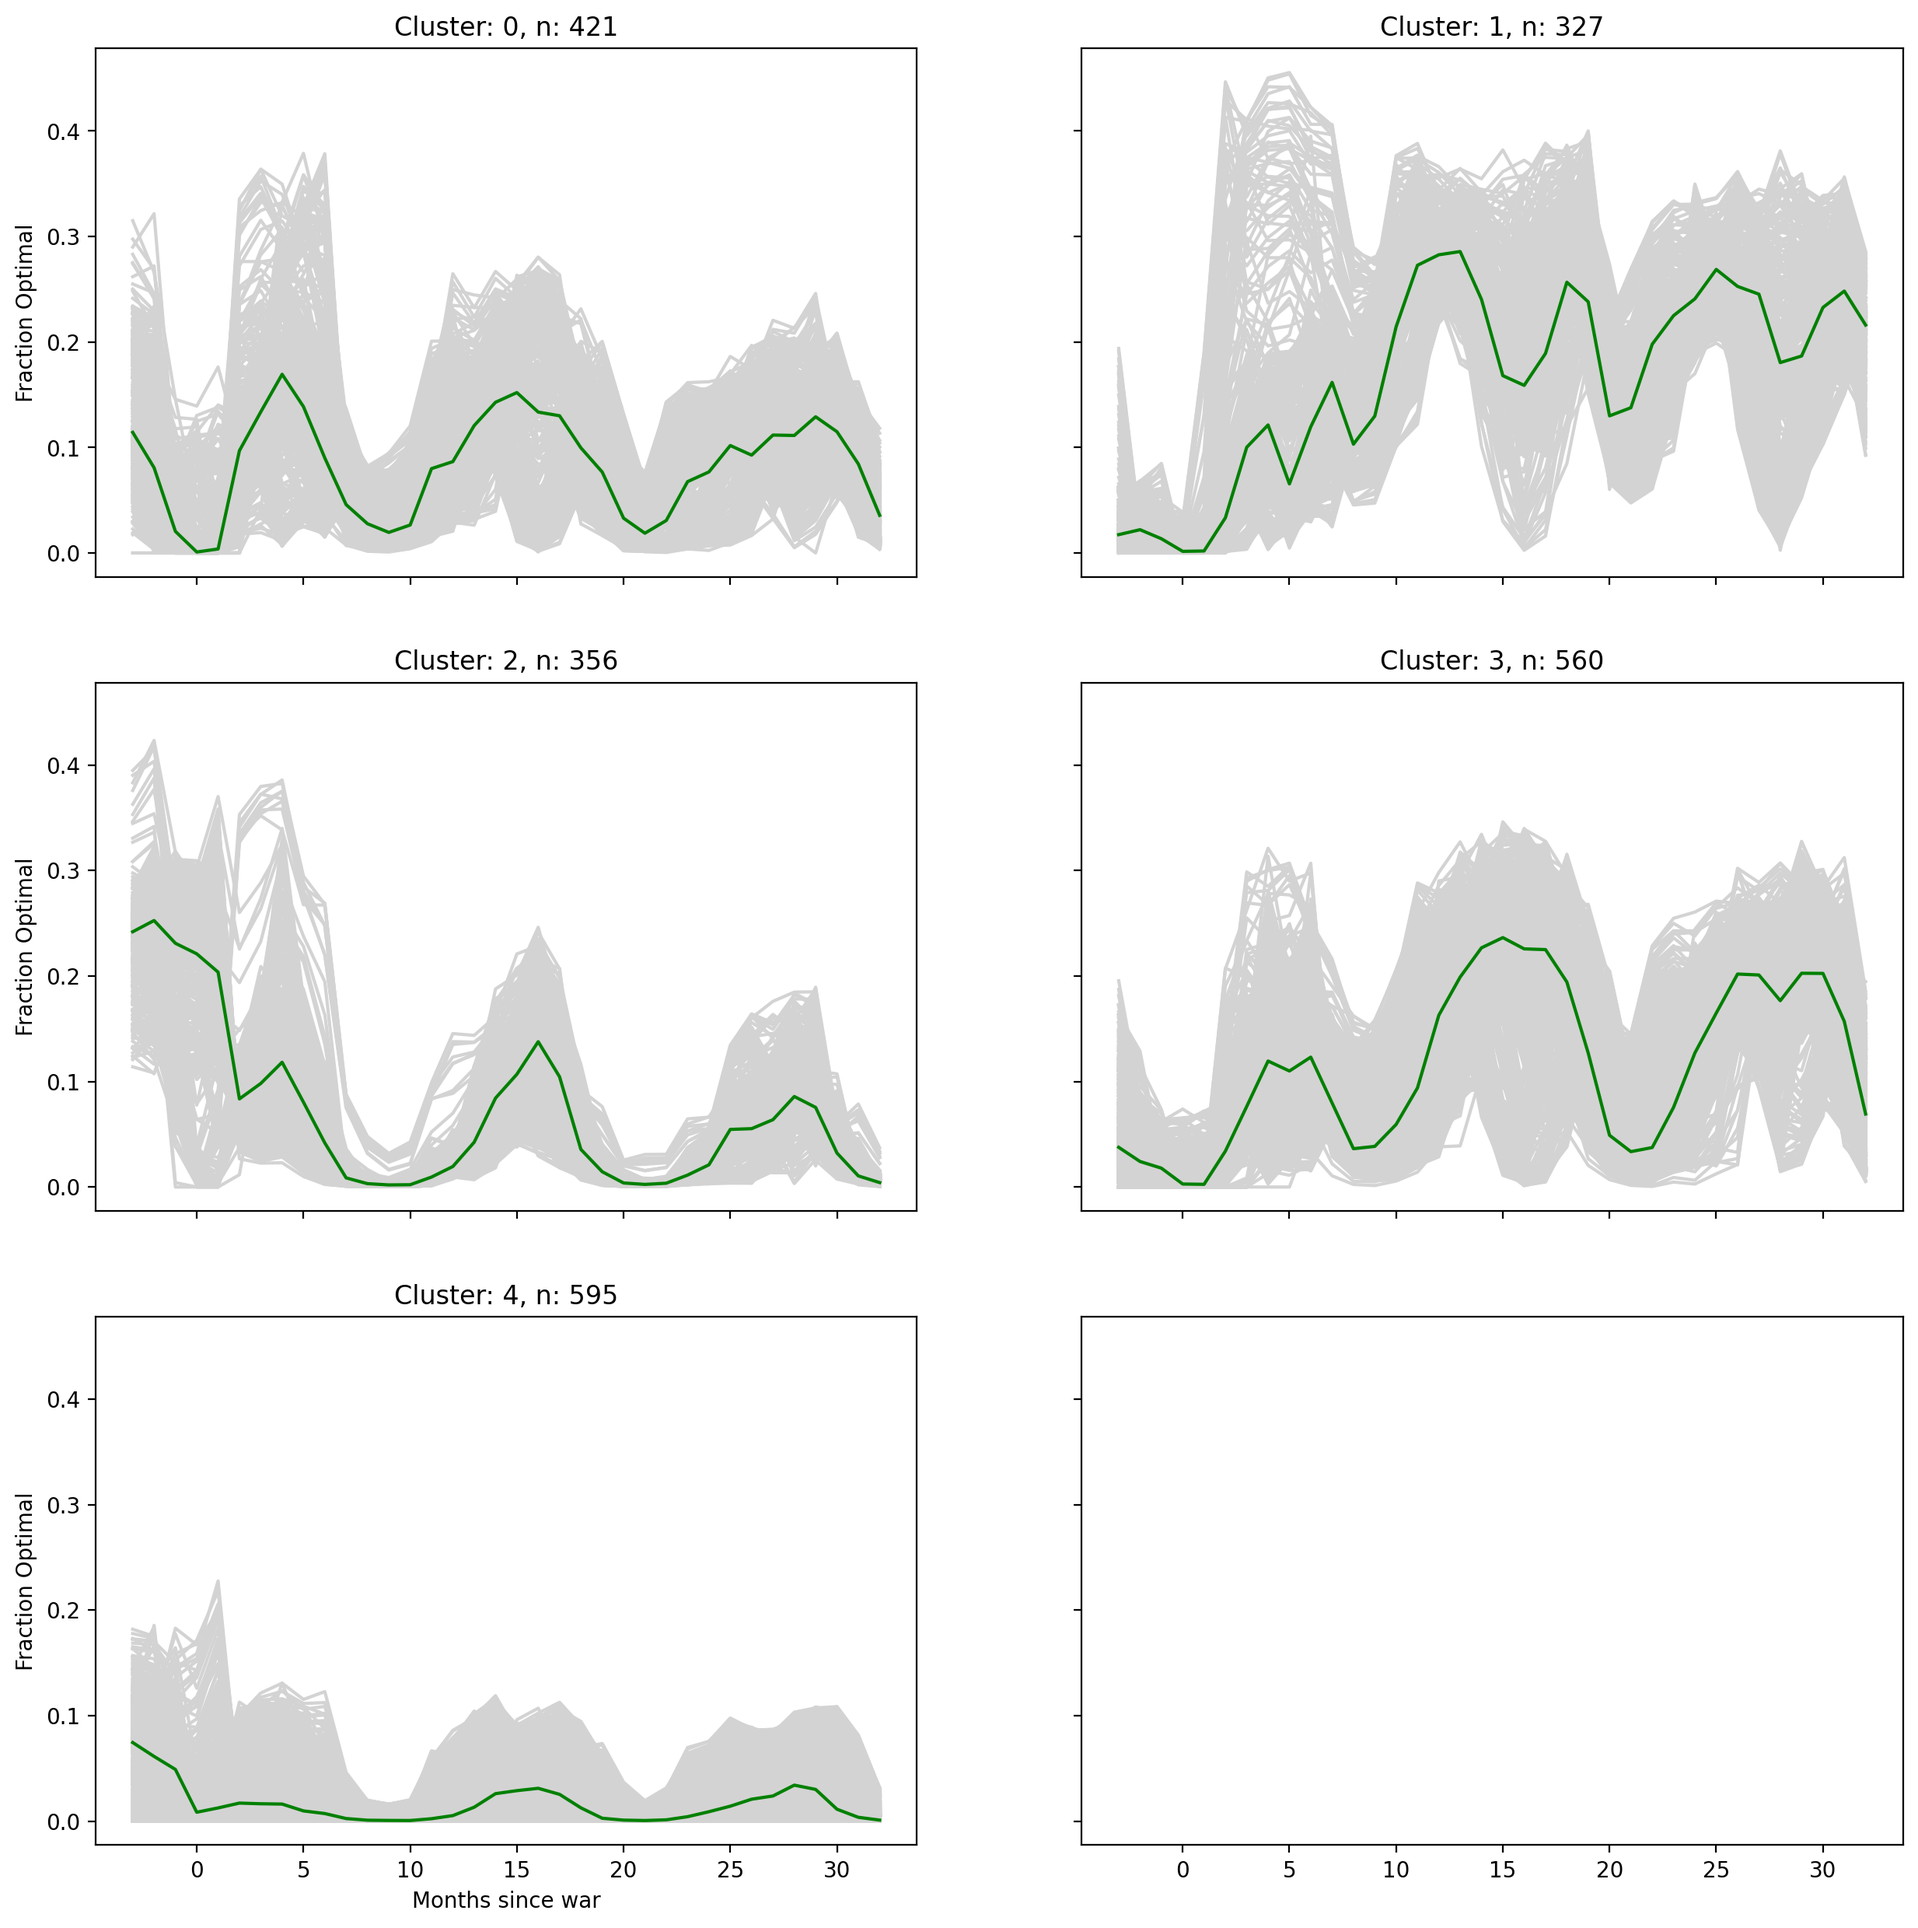
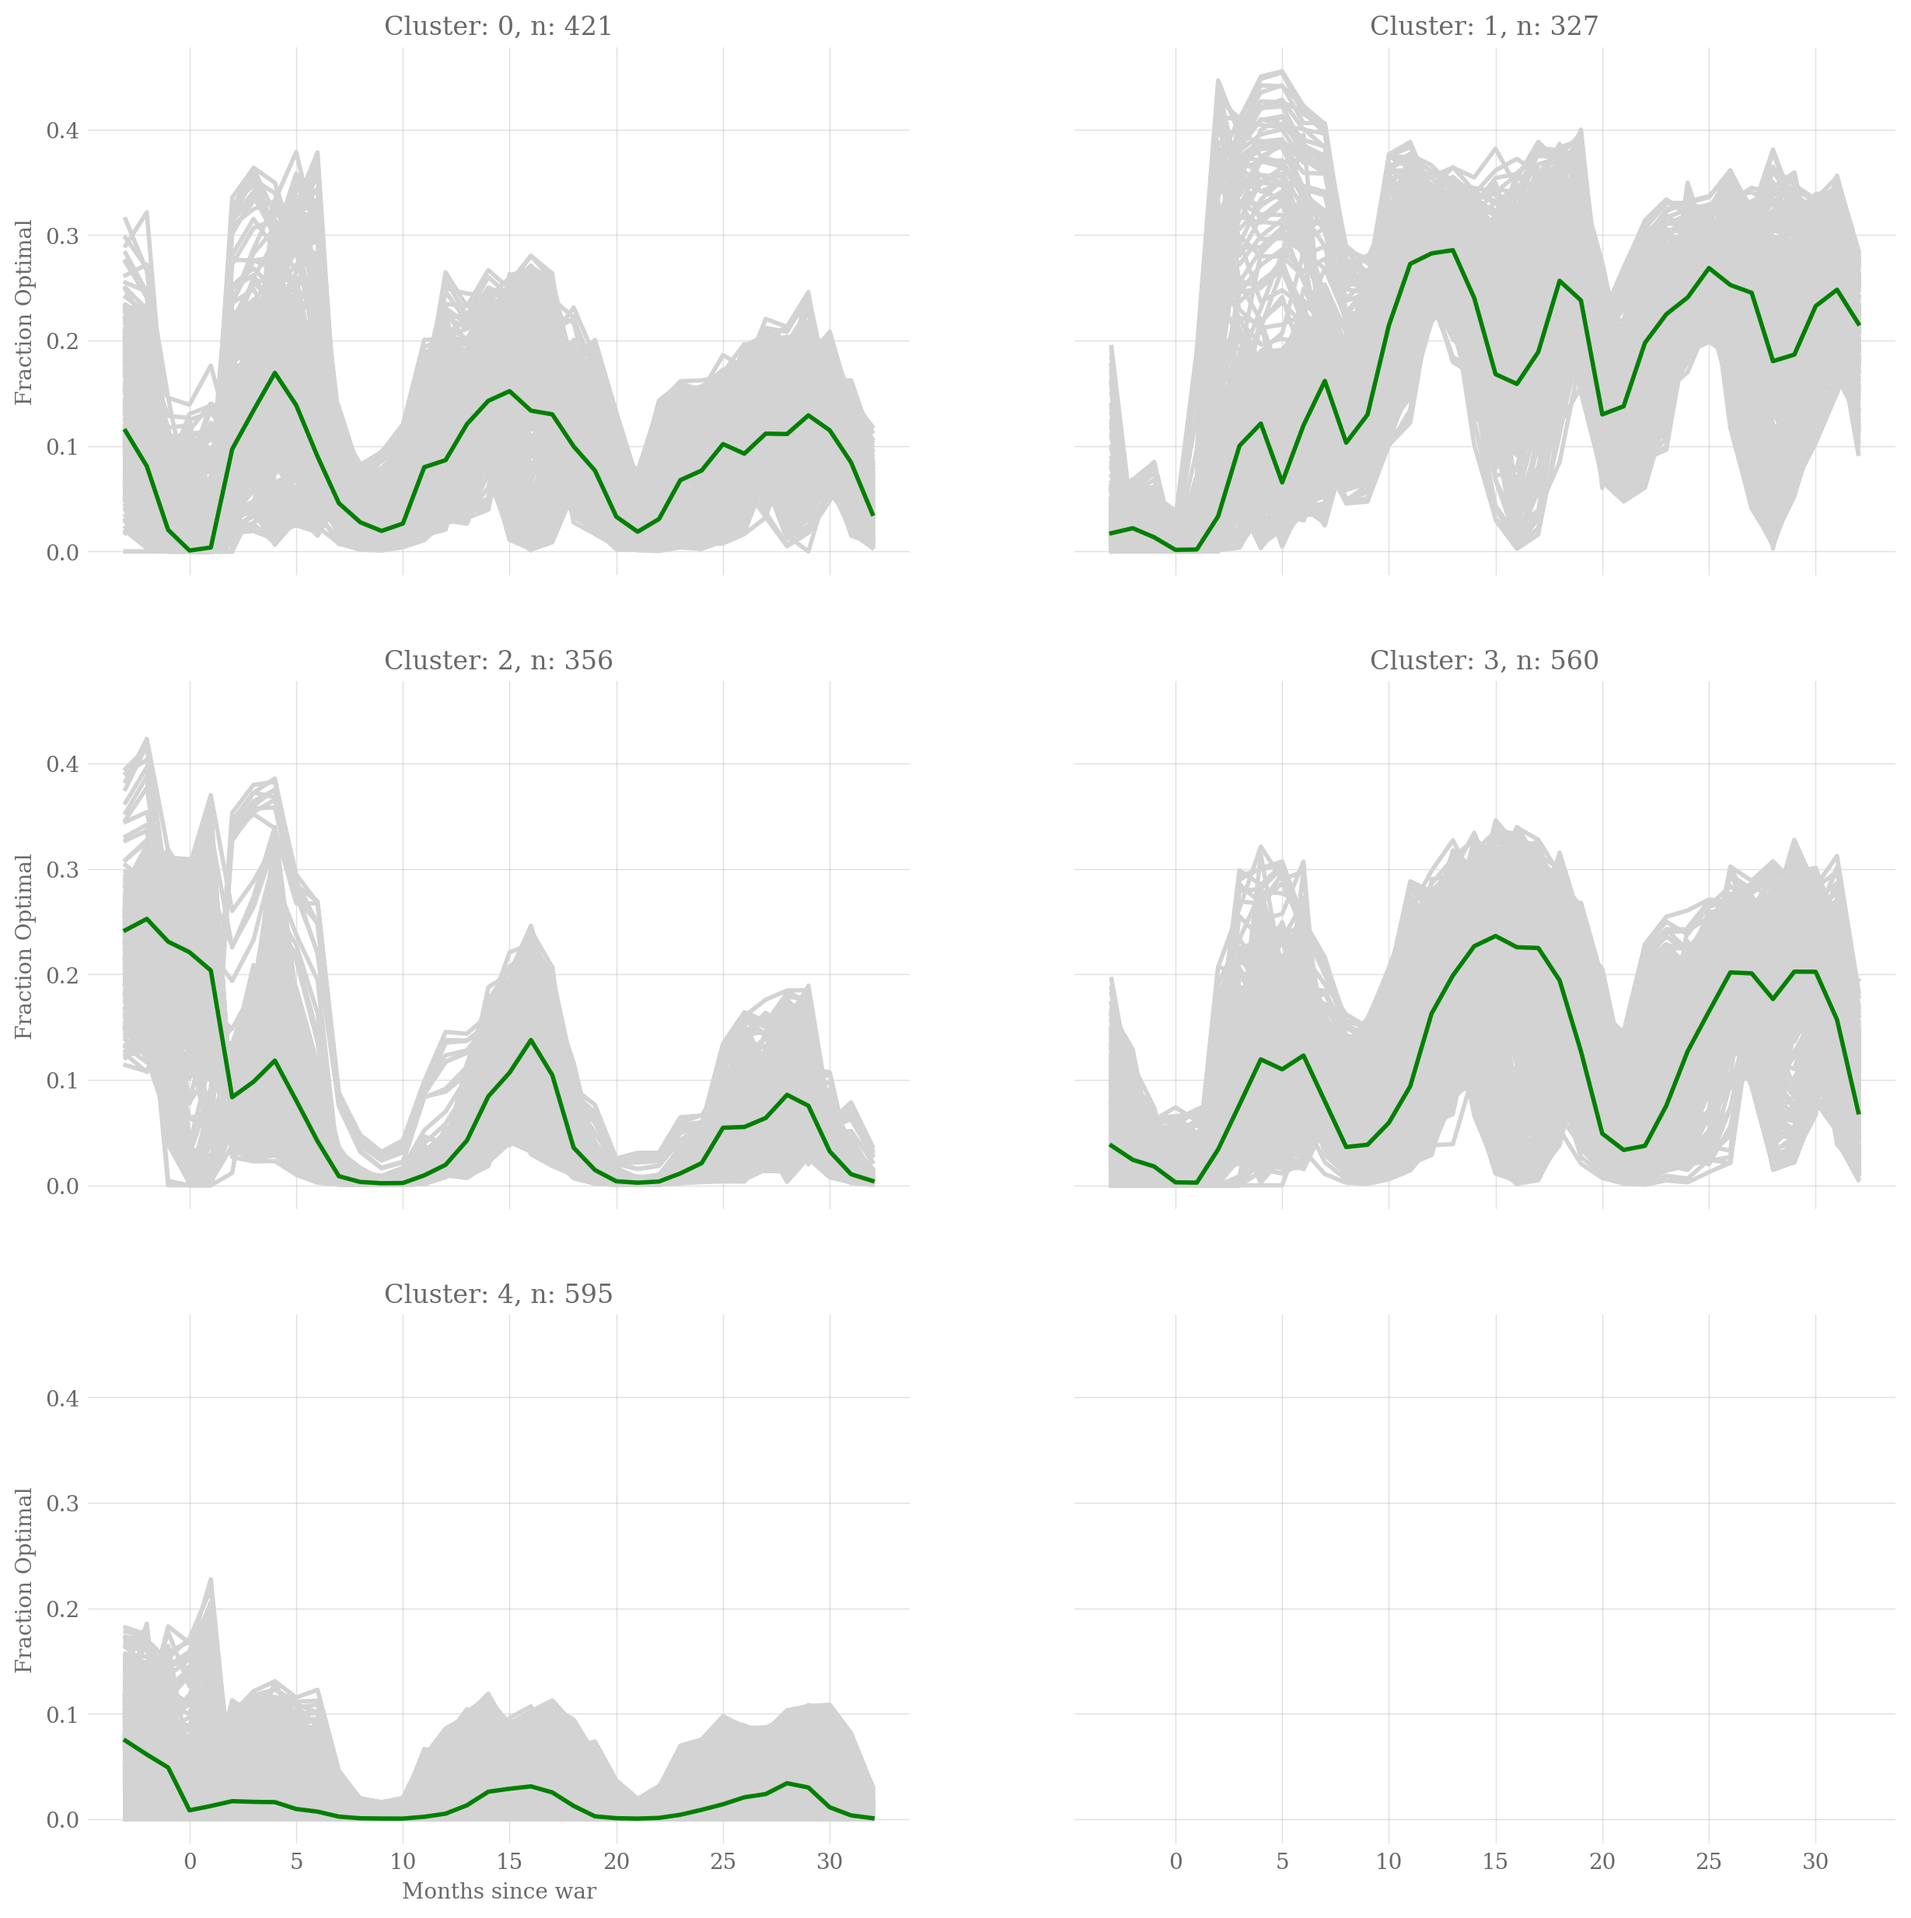
plots are now in allfed style

diff --git a/src/plotting/plotter_grid.py b/src/plotting/plotter_grid.py
@@ -8,9 +8,11 @@ import geopandas as gpd
 import matplotlib.pyplot as plt
 import geoplot as gplt
 from shapely.geometry import Point
+# Import the ALLFED stle
+plt.style.use("https://raw.githubusercontent.com/allfed/ALLFED-matplotlib-style-sheet/main/ALLFED.mplstyle")
 
 
-def cluster_timeseries(growth_df):
+def cluster_timeseries_only_growth(growth_df):
     """
     Plots the clusters that were found in postprocessing
     The plot is seperated by clusters and the median growth rate is plotted
@@ -78,15 +80,25 @@ def prepare_geometry(growth_df):
     return growth_df
 
 
+def cluster_timeseries_all_parameters(parameters):
+    """
+    Plots line plots for all clusters and all parameters
+    Arguments:
+        parameters: a dictionary of dataframes of all parameters
+    Returns: 
+        None, but saves the plot
+    """
+    pass
+
 if __name__ == "__main__":
     # Either calculate for the whole world or just the US
     global_or_US = "US"
-    if global_or_US == "US":
-        growth_df = gpd.GeoDataFrame(
-            pd.read_pickle(
-                "data" + os.sep + "interim_results" + os.sep + "seaweed_growth_rate_clustered_US.pkl"
-            )
+    growth_df = gpd.GeoDataFrame(
+        pd.read_pickle(
+            "data" + os.sep + "interim_results" + os.sep + "seaweed_growth_rate_clustered_" + global_or_US +".pkl"
         )
-        cluster_timeseries(growth_df)
-        growth_df = prepare_geometry(growth_df)
-        cluster_spatial(growth_df, global_or_US)
+    )
+    cluster_timeseries_only_growth(growth_df)
+    growth_df = prepare_geometry(growth_df)
+    cluster_spatial(growth_df, global_or_US)
+

diff --git a/src/plotting/plotter_lme.py b/src/plotting/plotter_lme.py
@@ -2,6 +2,8 @@ from src.model.seaweed_model import SeaweedModel
 import geopandas as gpd
 import matplotlib.pyplot as plt
 import pandas as pd
+# Import the ALLFED stle
+plt.style.use("https://raw.githubusercontent.com/allfed/ALLFED-matplotlib-style-sheet/main/ALLFED.mplstyle")
 
 
 class PlotterLME:
